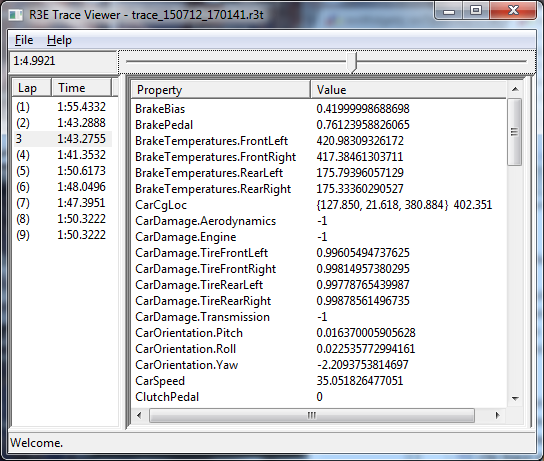
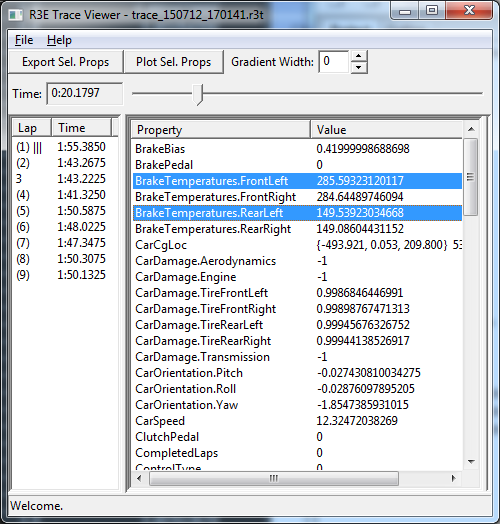
viewer supports csv export

diff --git a/README.md b/README.md
@@ -25,19 +25,31 @@ bridge of R3E. Frame- or time-based replaying is supported. The state values get
 
 ![ui](https://github.com/pixeljetstream/r3e-trace-analysis/blob/master/doc/ui.png)
 
-A tool to open a trace file and inspect all data. Allows to browse through individual laps recorded within the session.
+A tool to open a trace file and inspect all data. Allows to browse through individual laps recorded within the session. Double-click a lap to make it active. Laps with "invalid" times (shortcuts...) are in brackets "()". The current selected lap is marked with "|||".
+
+You can select interesting properties and export the current lap's interpolated values using the export button and create diagrams in your favorite chart software. How many sample points are taken is influenced by ```config.viewer.samplerate```.
+
+![ui](https://github.com/pixeljetstream/r3e-trace-analysis/blob/master/doc/csvexport.png)
+
+By modifying the "Gradient Width" value to greater 0, you can export the rate of change of values.
+Positive values means the properties increased in the given gradient time span ( ```time +/- gradient * config.viewer.samplerate```). 
+
+![ui](https://github.com/pixeljetstream/r3e-trace-analysis/blob/master/doc/csvexport_gradient.png)
+
+The plot button is a dummy at the moment.
 
 TODO:
 
-* ".csv" file export of selected properties or their gradient
 * OpenGL-based visualization of track and graphs for plotting data 
 * Flexible expression editor what to visualize (raw values, gradients...)
 
 ### Settings
 
-The default settings are stored in "config.lua". Directly edit or create "config-user.lua" to override those.
+The default settings are stored in "config.lua". Create "config-user.lua" to override those.
 
 ### History
+* 19.07.2015:
+ * csv file export
 * 18.07.2015:
  * first version of trace viewer working
 * 12.07.2015:
